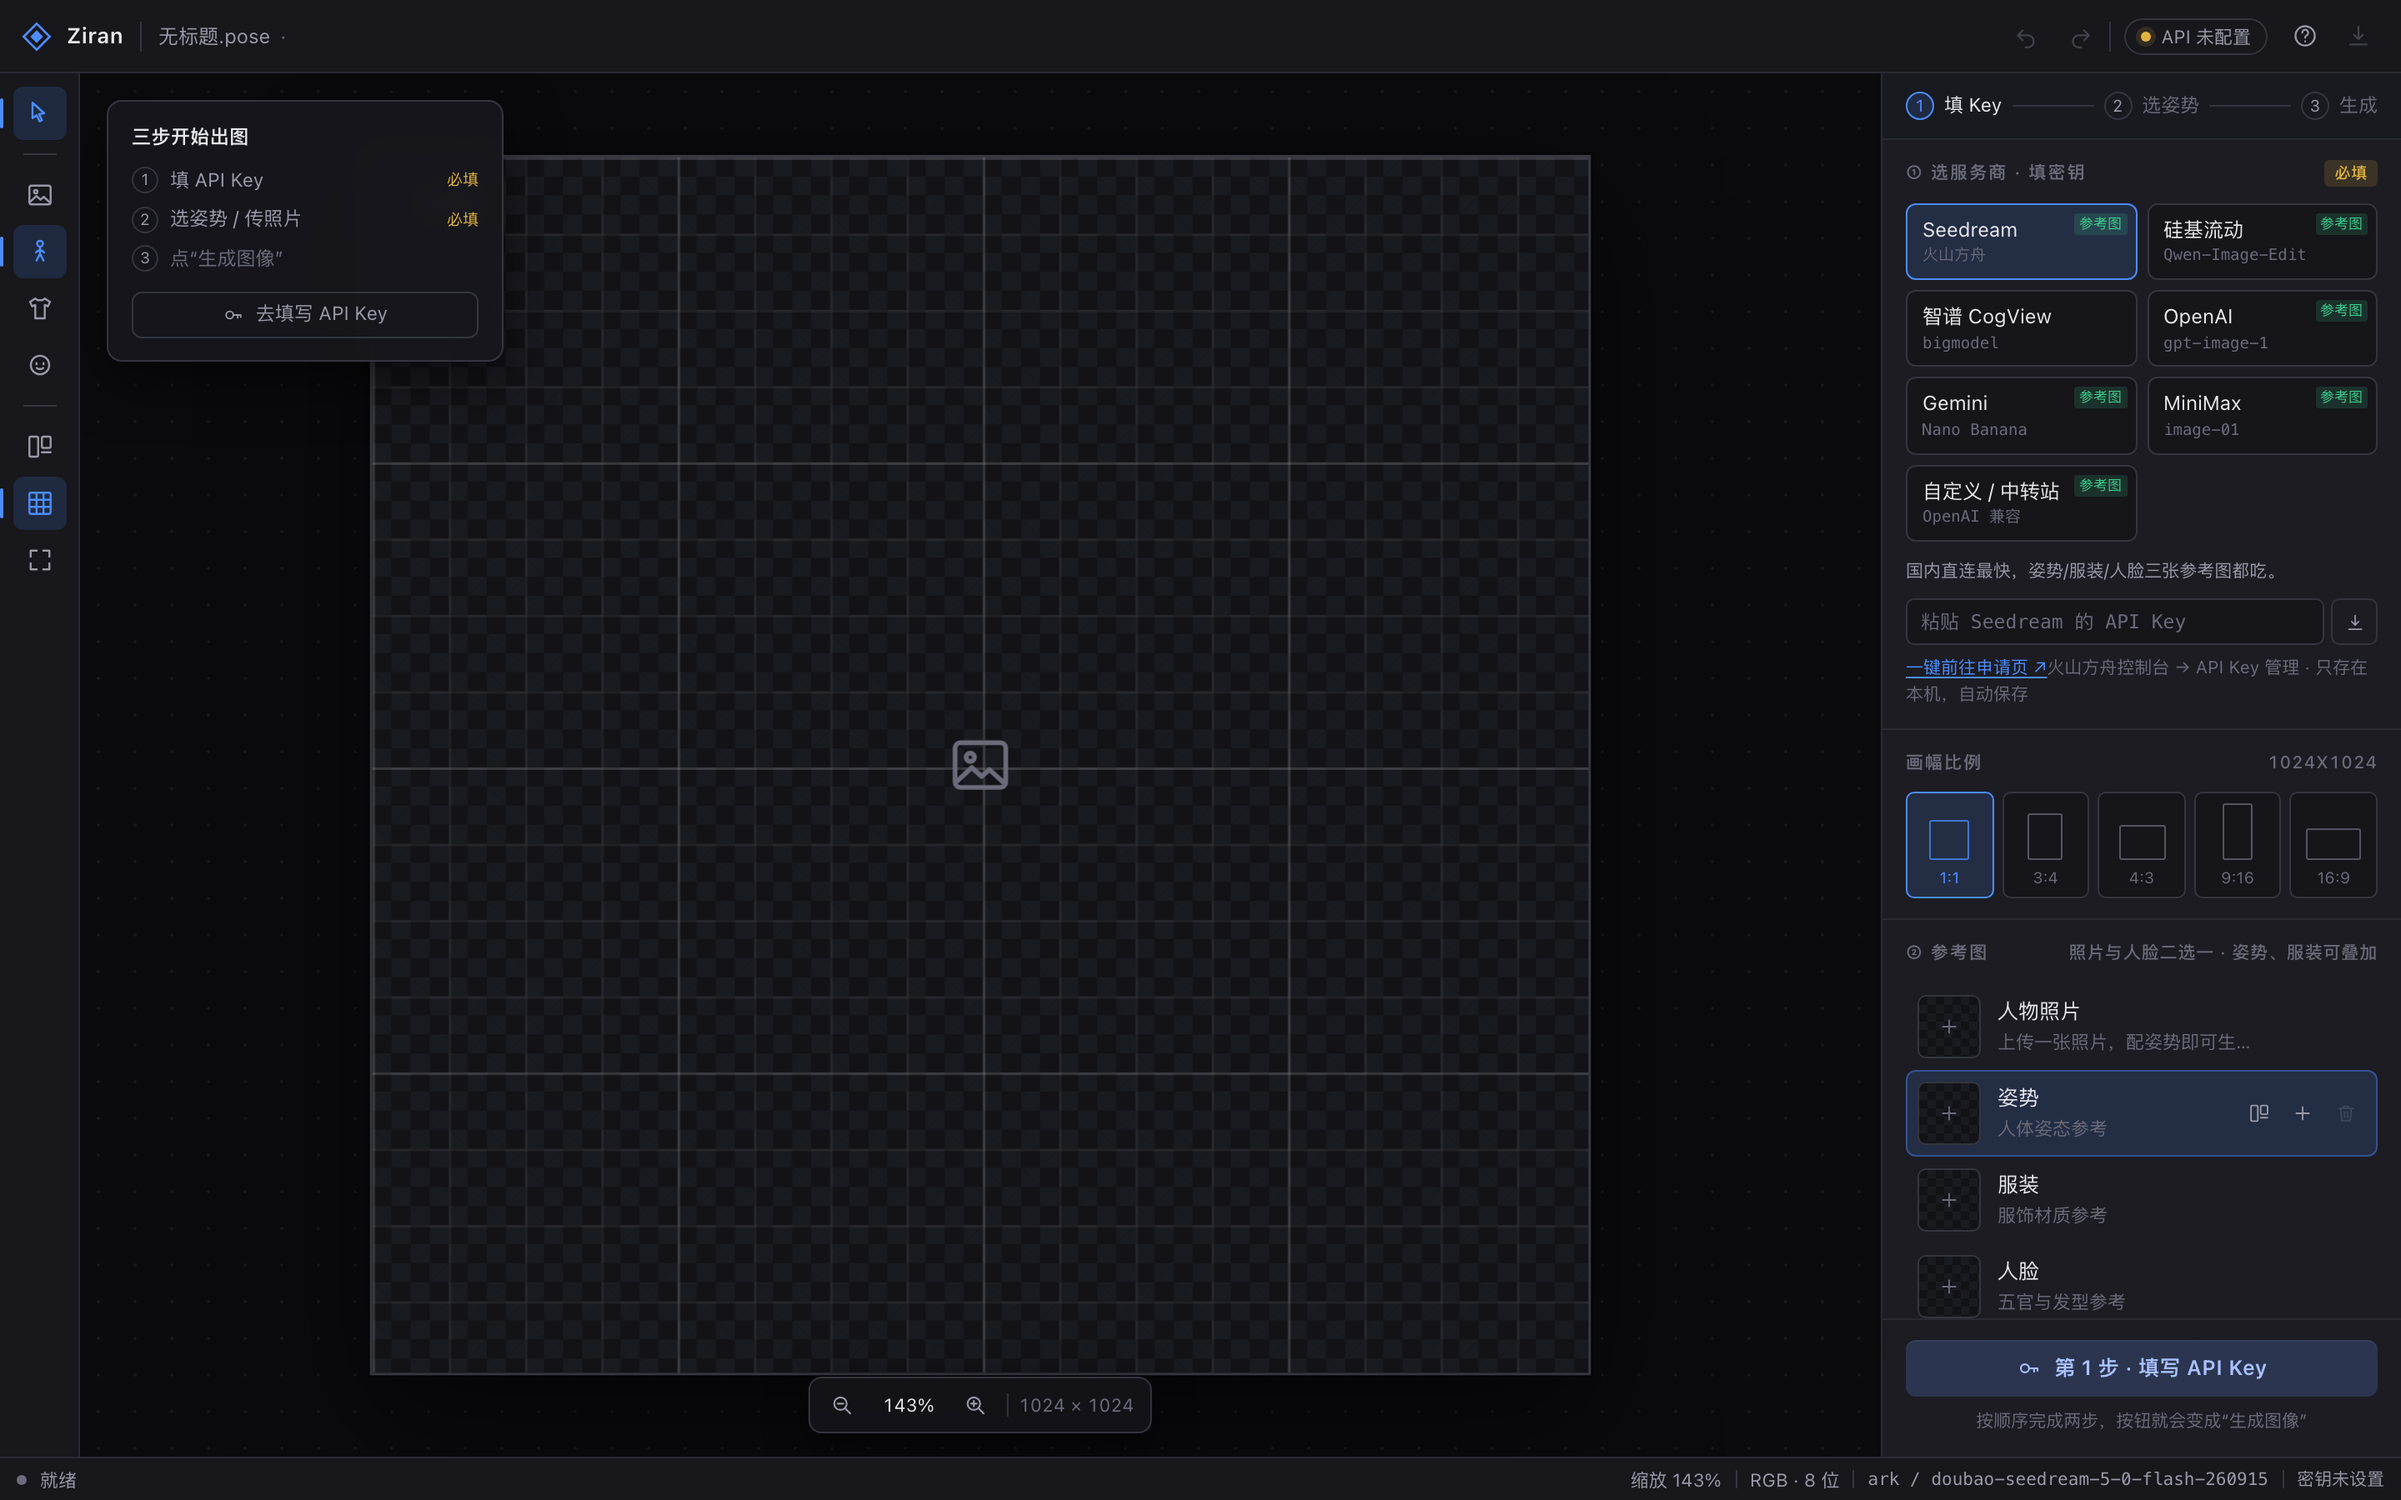
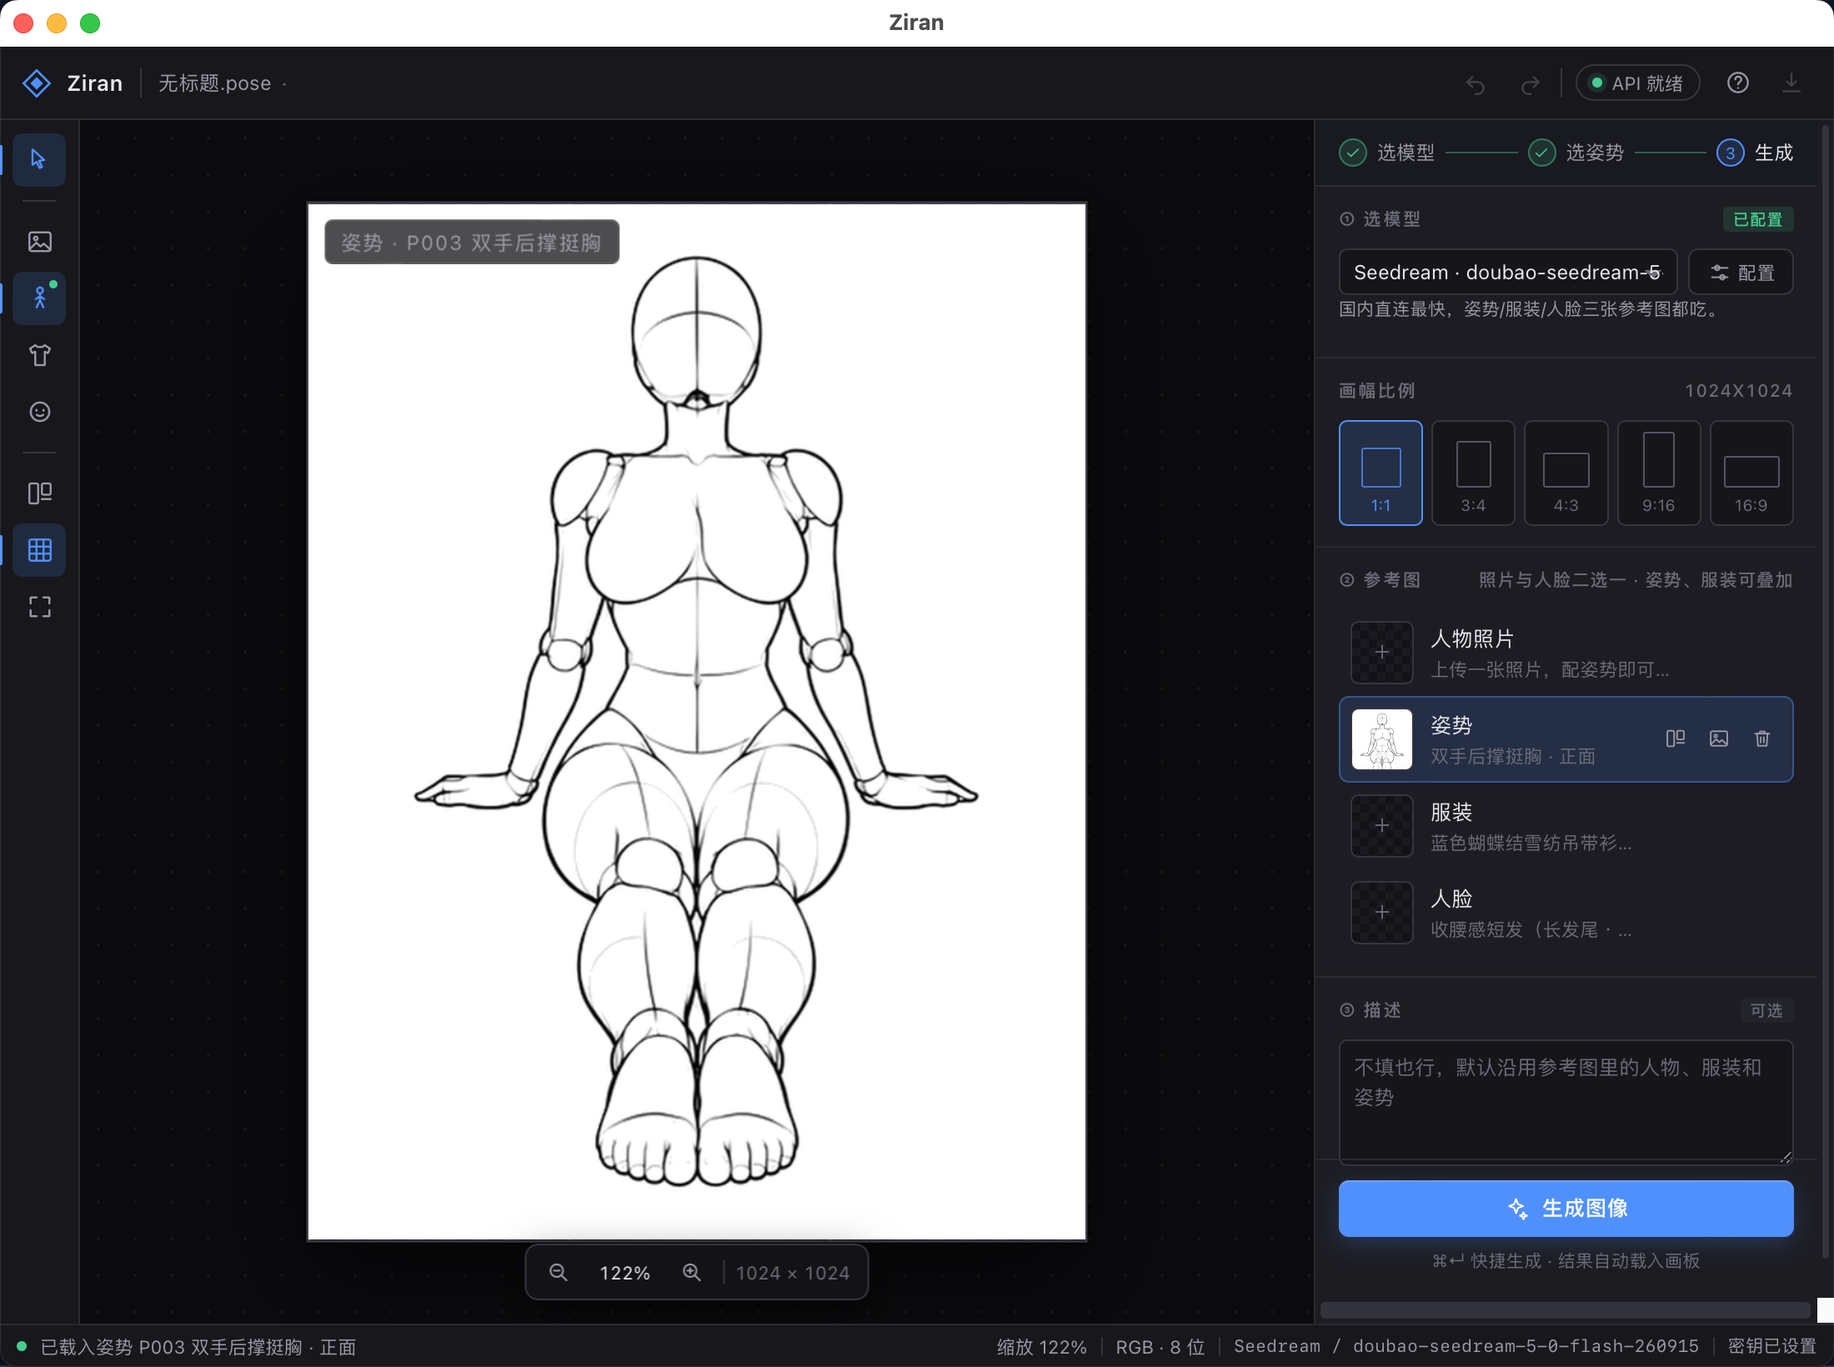
README: single workspace screenshot with a sitting pose loaded
Drop the three gallery screenshots; one shot of the pose-driven flow
(sitting line-art on the canvas, model picker and references at right)
says more than four images, and the old main.png predates the config
panel.

diff --git a/README.md b/README.md
@@ -16,17 +16,9 @@
 
 ## 截图
 
-**工作台** —— 左侧画板、右侧供应商与参考图，按顺序走完三步即可出图：
+**传一张照片、挑一张姿势，出一张成图** —— 画板上已载入一张坐姿线稿参考（内置姿势图库按坐姿/站姿/躺卧等分类，98 张人体线稿）：
 
-<img src="docs/screenshots/main.png" width="820" alt="Ziran 工作台">
-
-**内置参考图库** —— 姿势（线稿）、服装（实拍）、人脸（CC0 实拍），支持分类筛选、搜索、双击直接载入：
-
-| 姿势 · 98 张 | 服装 · 1407 套 |
-|---|---|
-| <img src="docs/screenshots/pose-gallery.png" width="400" alt="姿势图库"> | <img src="docs/screenshots/costume-gallery.png" width="400" alt="服装图库"> |
-| **人脸 · 1499 张（CC0）** | |
-| <img src="docs/screenshots/face-gallery.png" width="400" alt="人脸图库"> | |
+<img src="docs/screenshots/main.png" width="820" alt="Ziran 工作台：坐姿参考已载入画板，右侧选模型、配参考、点生成">
 
 ## 功能
 
